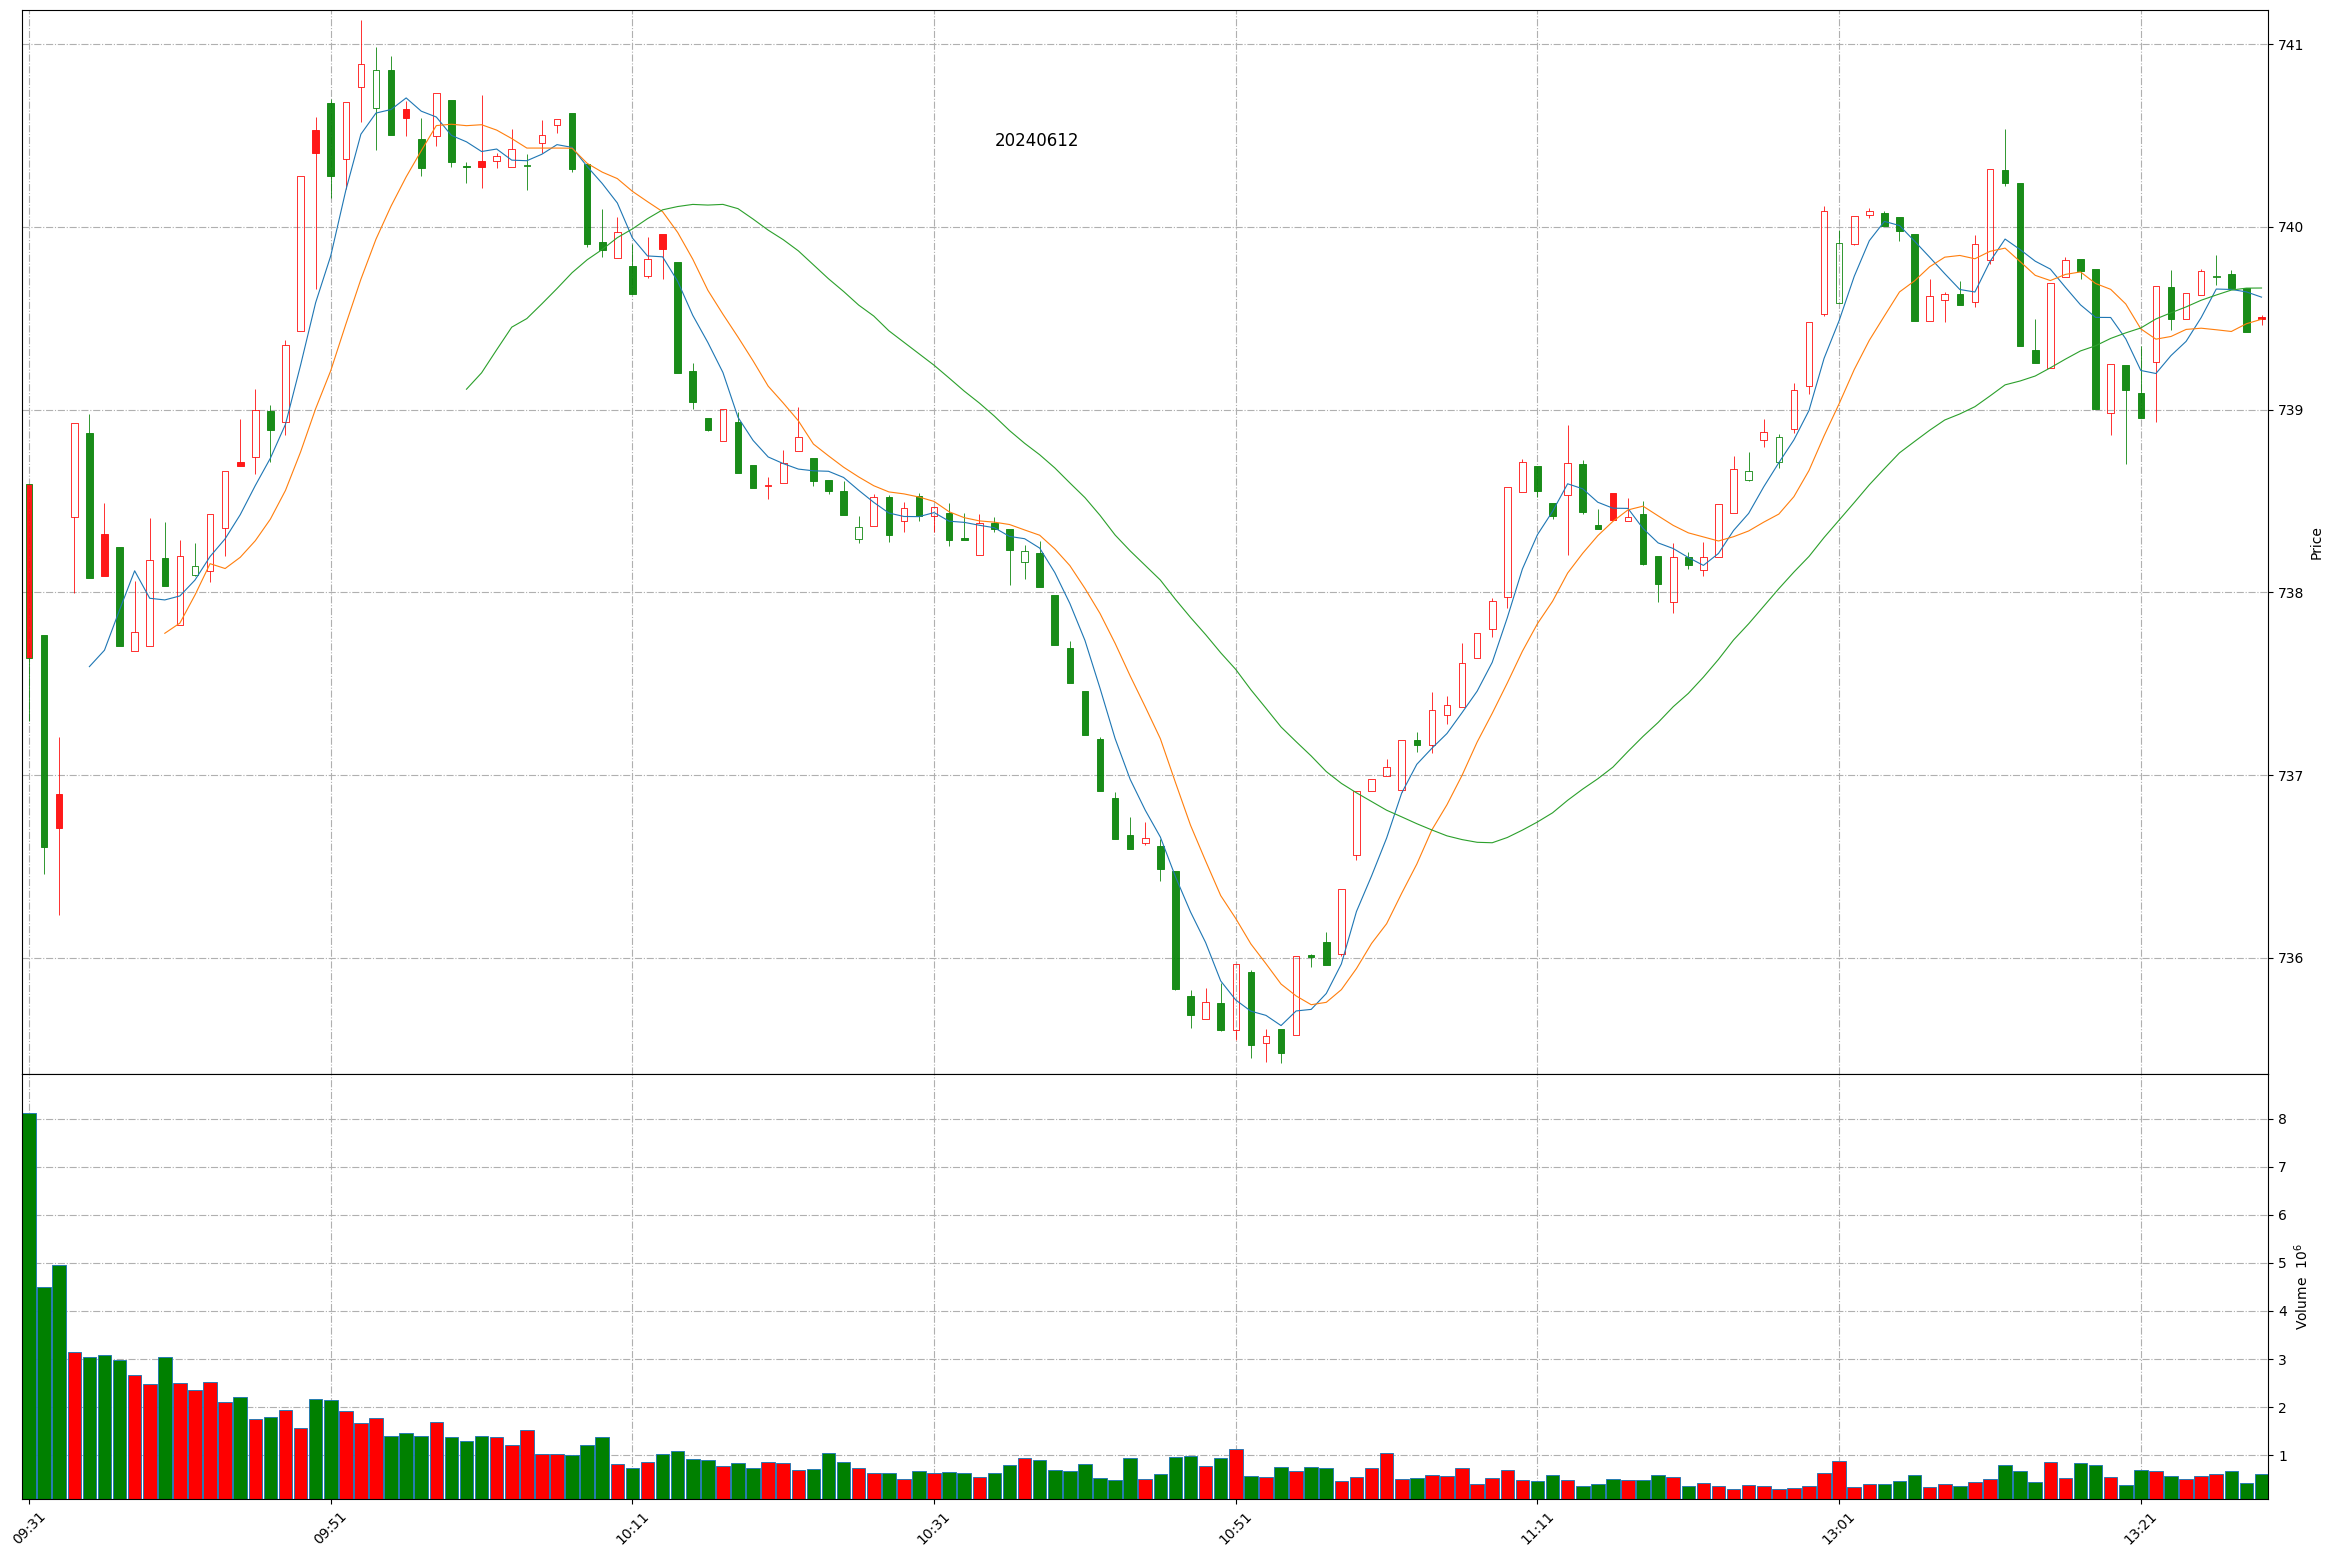
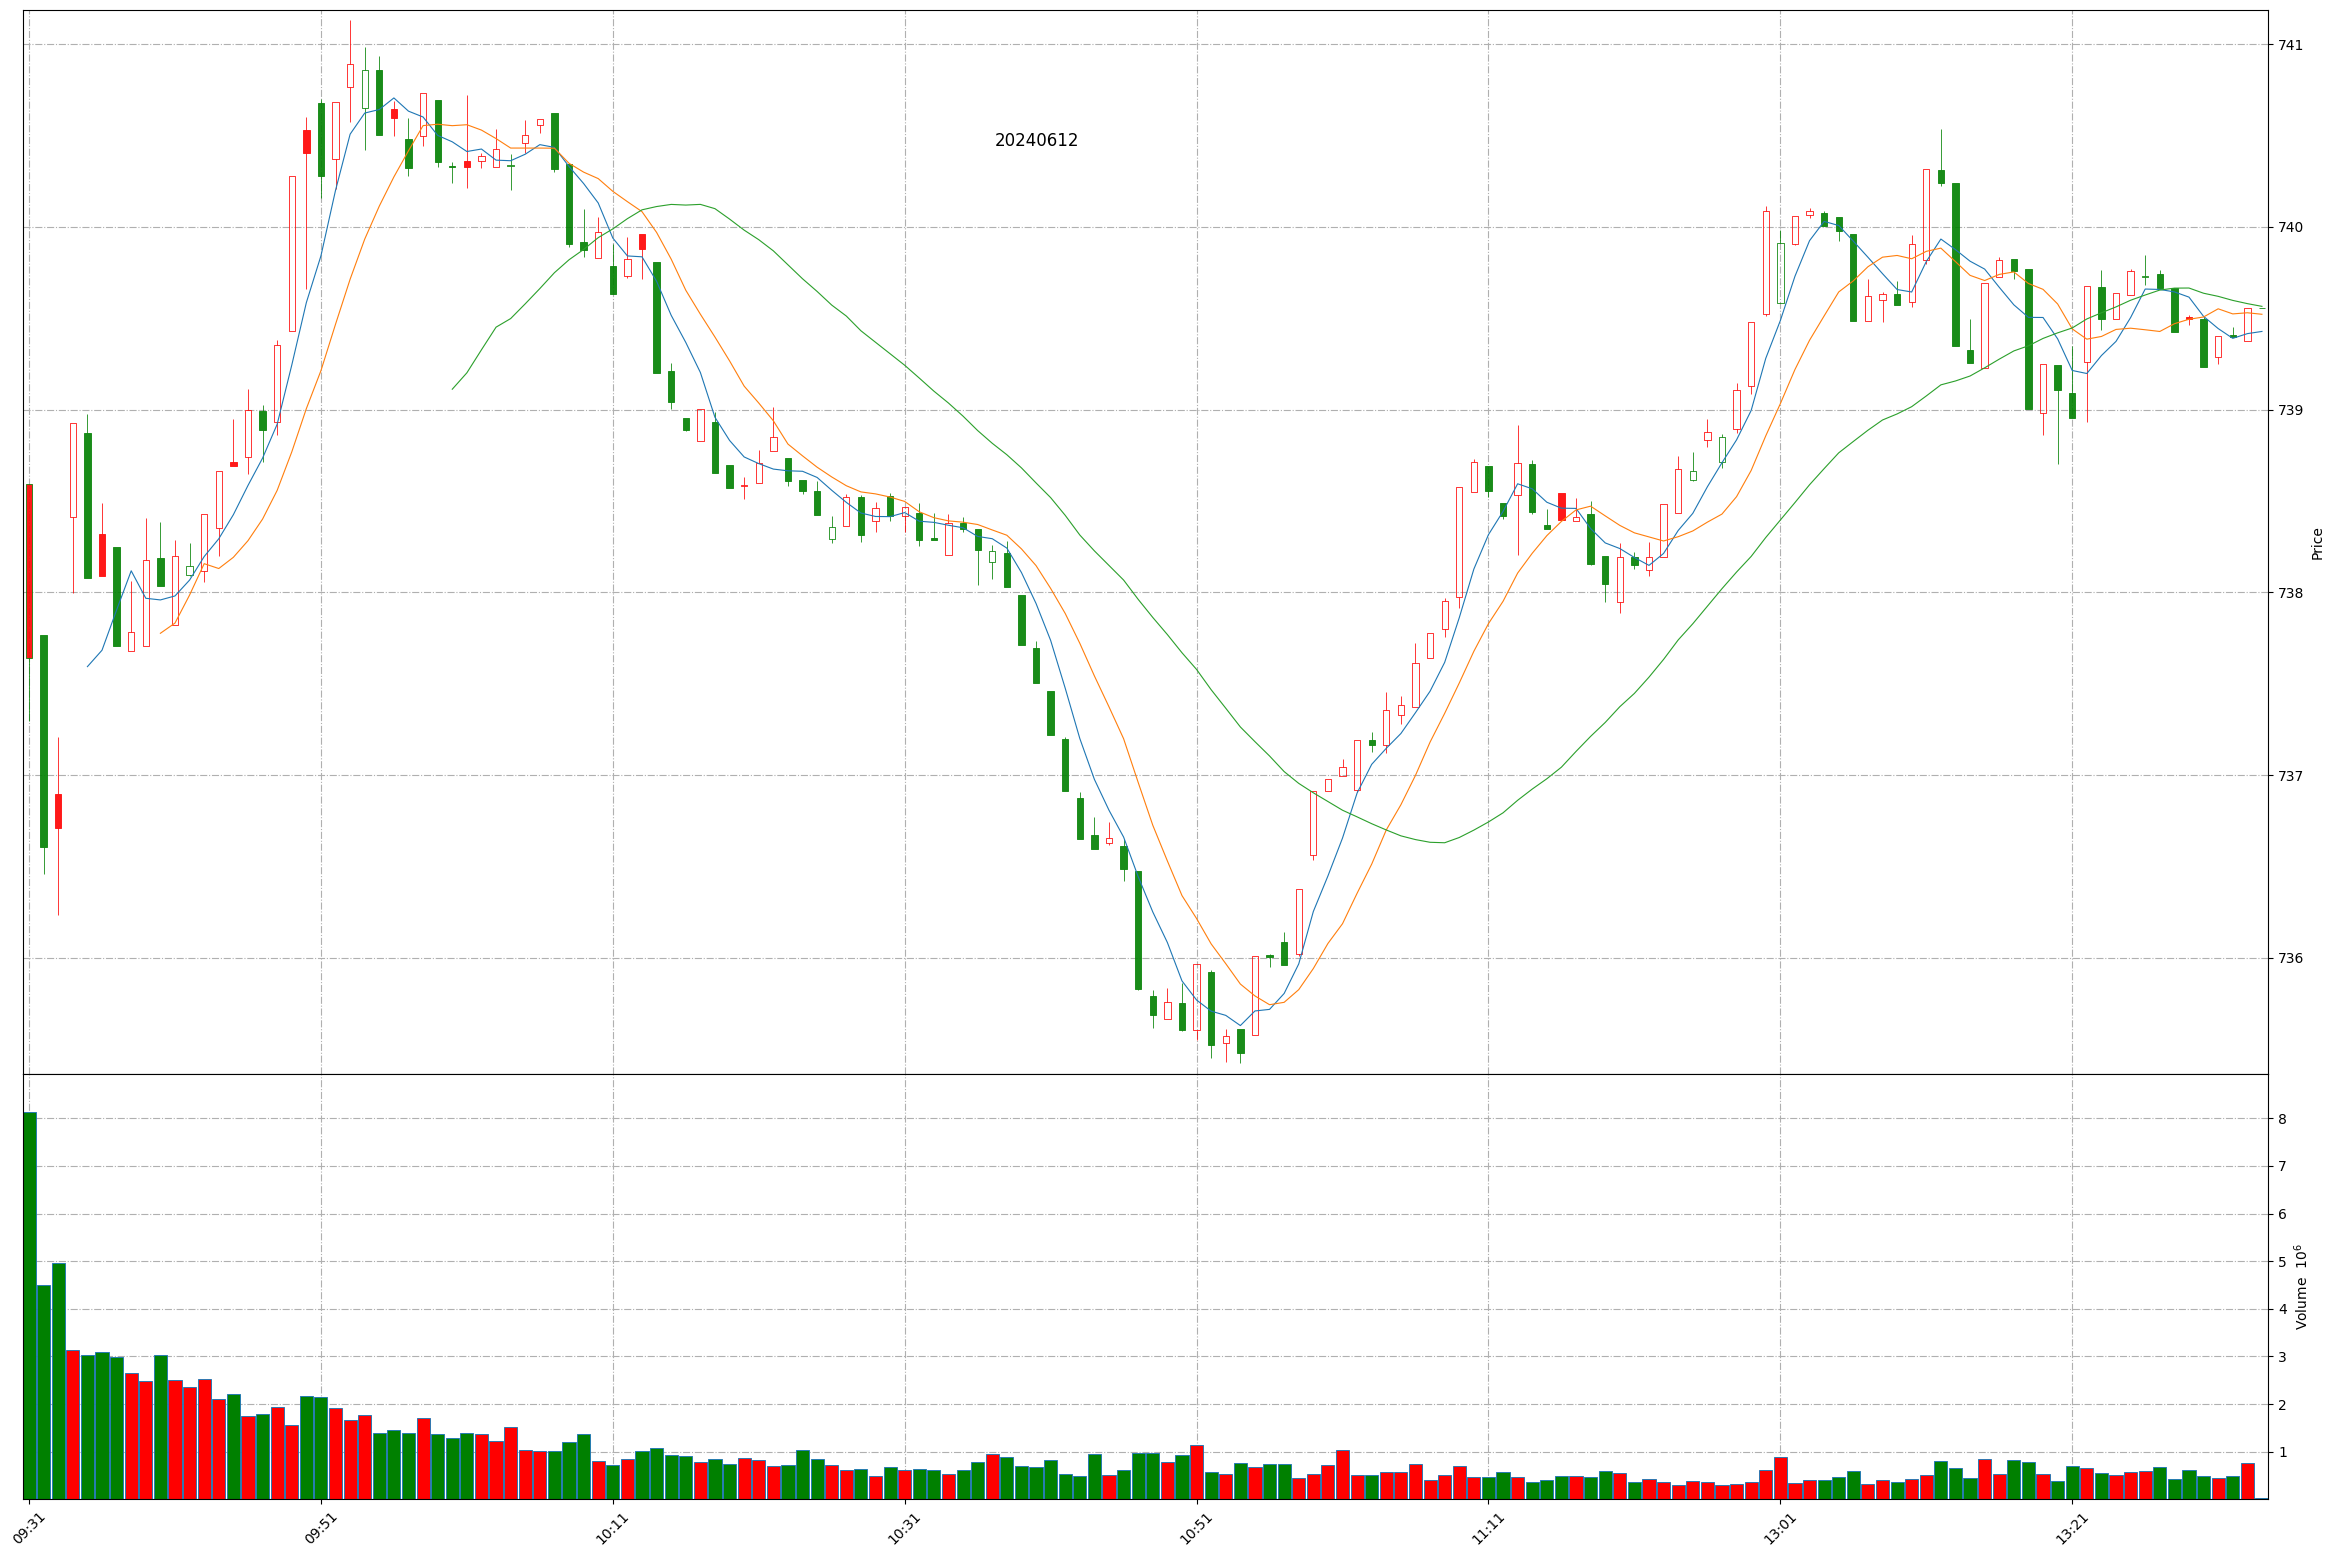
Github action update at 2024-06-12 13:33:19.

diff --git a/README.md b/README.md
@@ -1,11 +1,11 @@
 
 # Daily-A-share-market-quotes 每日 A 股指数（5min 更新）- 20240612
 
-### 上证指数 20240612 13:29
+### 上证指数 20240612 13:33
 ![](./fig/2024/6/20240612-sh000001.png)
 
-### 深证成指 20240612 13:29
+### 深证成指 20240612 13:33
 ![](./fig/2024/6/20240612-sz399001.png)
 
-### 北证50 20240612 13:29
+### 北证50 20240612 13:33
 ![](./fig/2024/6/20240612-bj899050.png)
